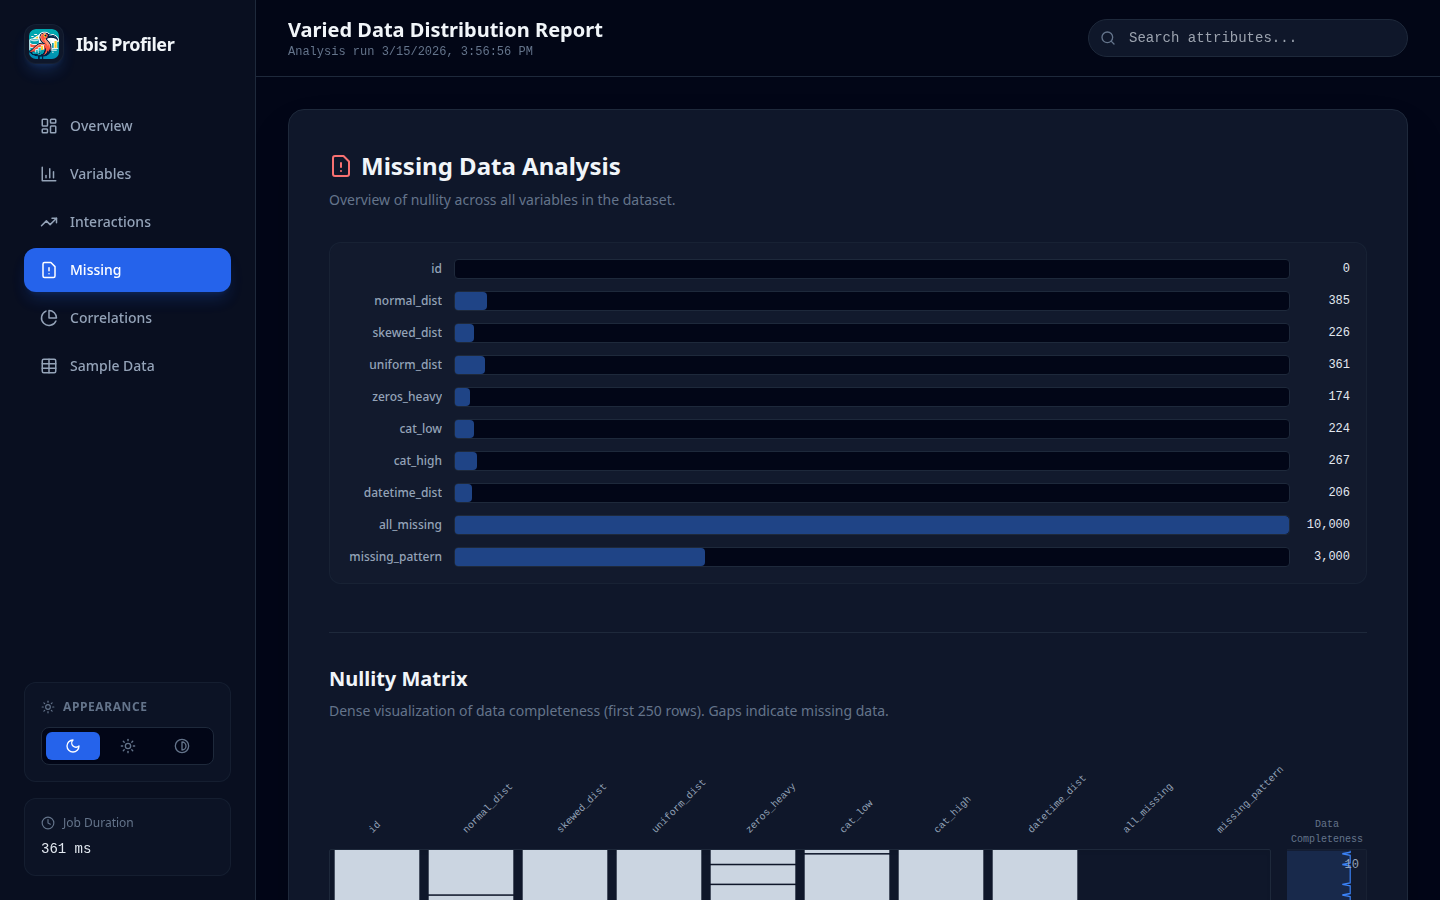
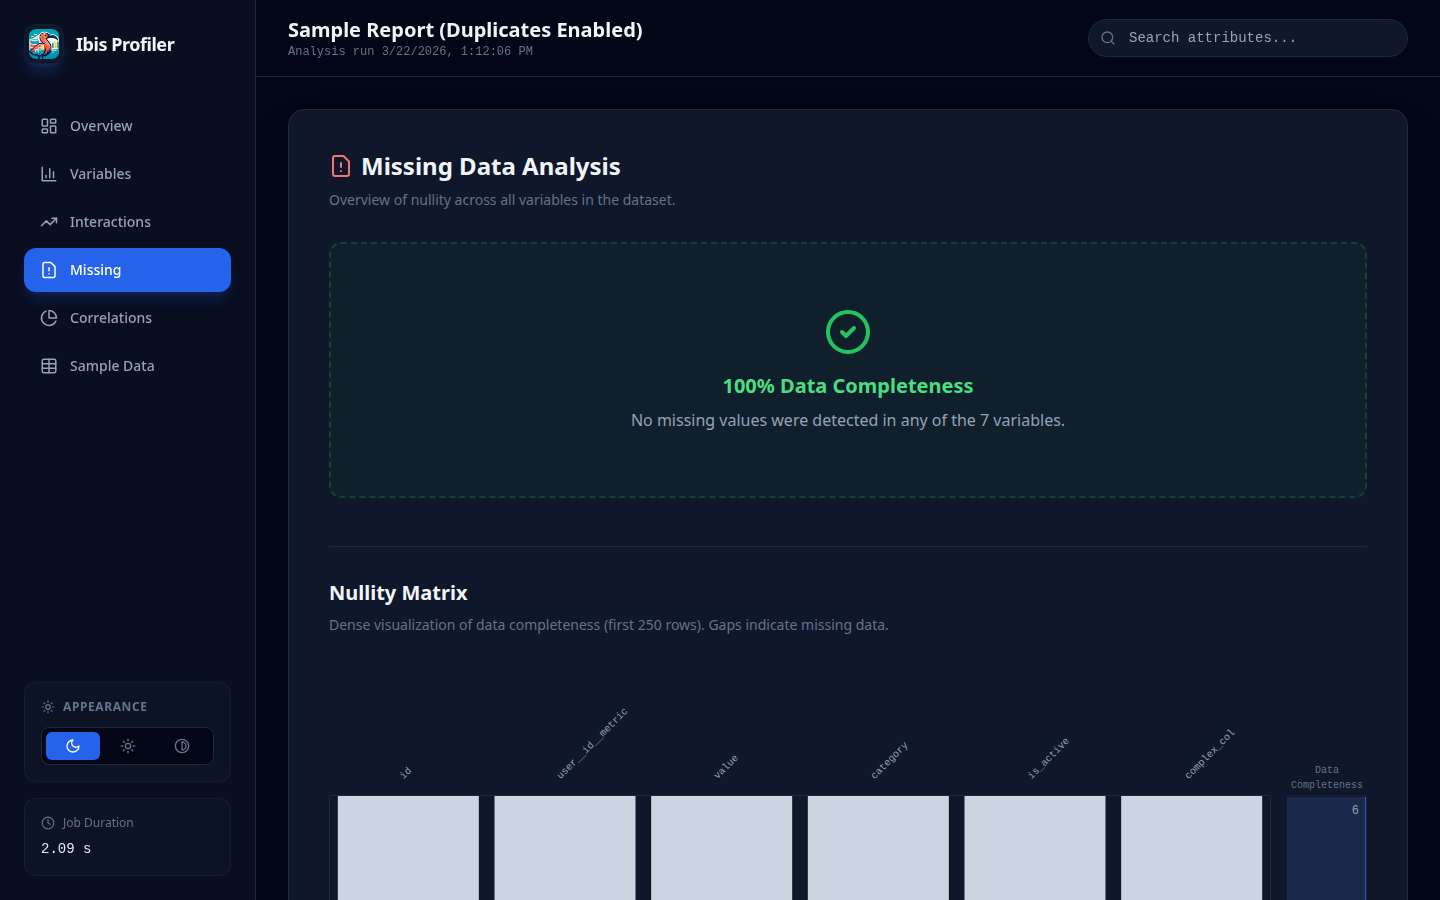
Docs: Update screenshots and README CLI documentation

diff --git a/docs/plans/update_docs_and_screenshots.md b/docs/plans/update_docs_and_screenshots.md
@@ -1,0 +1,41 @@
+# Plan: Update Documentation and Screenshots
+
+## Objective
+Update the project's documentation (`README.md`) and regenerate all screenshots to reflect the latest UI changes and features.
+
+## Key Files & Context
+- `README.md`: Main project documentation.
+- `scripts/take_screenshots.py`: Utility for generating screenshots using Playwright.
+- `scripts/generate_sample_reports.py`: Script to generate the HTML reports used as screenshot sources.
+- `src/ibis_profiling/assets/img/`: Directory where screenshots and logos are stored.
+
+## Implementation Steps
+
+### Phase 1: Preparation
+1. Ensure `playwright` and its dependencies are installed in the environment.
+2. Verify that `scripts/generate_sample_reports.py` is up-to-date with current `ProfileReport` API.
+
+### Phase 2: Generate Fresh Reports
+1. Run `scripts/generate_sample_reports.py` to produce `examples/html/full_report.html` and `examples/html/minimal_report.html`.
+2. These reports will serve as the "ground truth" for the screenshots.
+
+### Phase 3: Update Screenshots
+1. Use `scripts/take_screenshots.py` to capture new images:
+   - `report_preview.png` (Full page)
+   - `report_overview.png` (Overview section)
+   - `report_variables.png` (Variables section)
+   - `report_missing.png` (Missing values analysis)
+2. Ensure the screenshots are saved directly to `src/ibis_profiling/assets/img/`.
+
+### Phase 4: Update Documentation
+1. Review `README.md` for any outdated information:
+   - Check if the "Preview" section correctly links to the new images.
+   - Verify feature lists (e.g., ensure "Excel Support" and "Adjustable Themes" are accurately described).
+   - Check the "Performance Benchmarks" table for any needed updates based on recent optimizations.
+   - Ensure the "Usage" examples reflect the current CLI and API.
+2. Increment the `cacheBuster` in the PyPI badge URL to force a refresh on GitHub/PyPI.
+
+## Verification & Testing
+1. Visually inspect the generated screenshots to ensure they are high-quality and accurately represent the current UI.
+2. Review `README.md` locally to ensure all links and images render correctly.
+3. Run `ruff check README.md` (if applicable) or verify markdown formatting.

diff --git a/README.md b/README.md
@@ -4,7 +4,7 @@
 
 # Ibis Profiling
 
-[![PyPI version](https://badge.fury.io/py/ibis-profiling.svg?cacheBuster=1)](https://badge.fury.io/py/ibis-profiling)
+[![PyPI version](https://badge.fury.io/py/ibis-profiling.svg?cacheBuster=2)](https://badge.fury.io/py/ibis-profiling)
 [![License: MIT](https://img.shields.io/badge/License-MIT-yellow.svg)](https://opensource.org/licenses/MIT)
 
 An ultra-high-performance data profiling system built natively for **Ibis**.
@@ -113,7 +113,7 @@ You can profile datasets directly from the terminal without writing any Python c
 uv run ProfileReport --file-path data.csv --output report.html
 
 # One-off run (no installation required)
-uv run --with ibis-profiling ProfileReport --file-path data.parquet
+uv run --with ibis-profiling,ibis-framework[duckdb] ProfileReport --file-path data.parquet
 ```
 
 #### CLI Options
@@ -125,6 +125,9 @@ uv run --with ibis-profiling ProfileReport --file-path data.parquet
 | `--minimal` | | Generate a minimal report (faster). |
 | `--theme` | | Report theme: `default` or `ydata-like`. |
 | `--format` | | Force output format: `html` or `json`. |
+| `--correlations` | | Explicitly enable or disable correlations (`--correlations` / `--no-correlations`). |
+| `--monotonicity` | | Explicitly enable or disable monotonicity checks (`--monotonicity` / `--no-monotonicity`). |
+| `--duplicates` | | Explicitly enable or disable duplicate row checks (`--duplicates` / `--no-duplicates`). |
 
 ---
 
